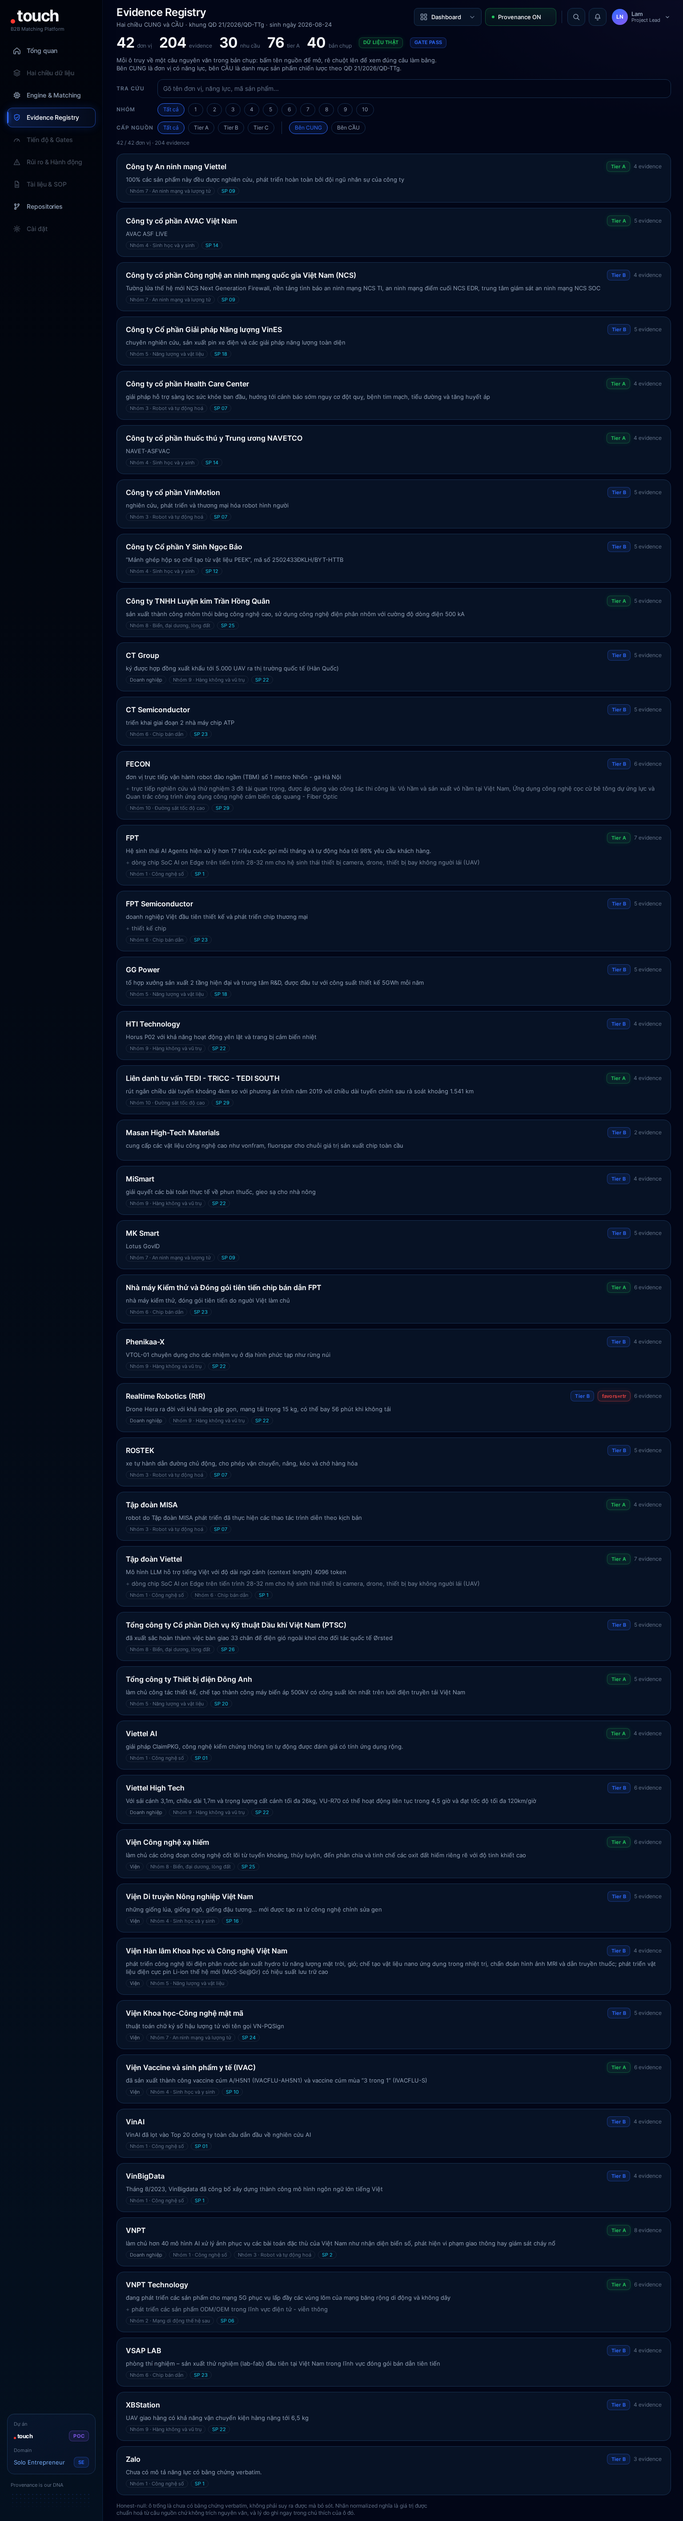
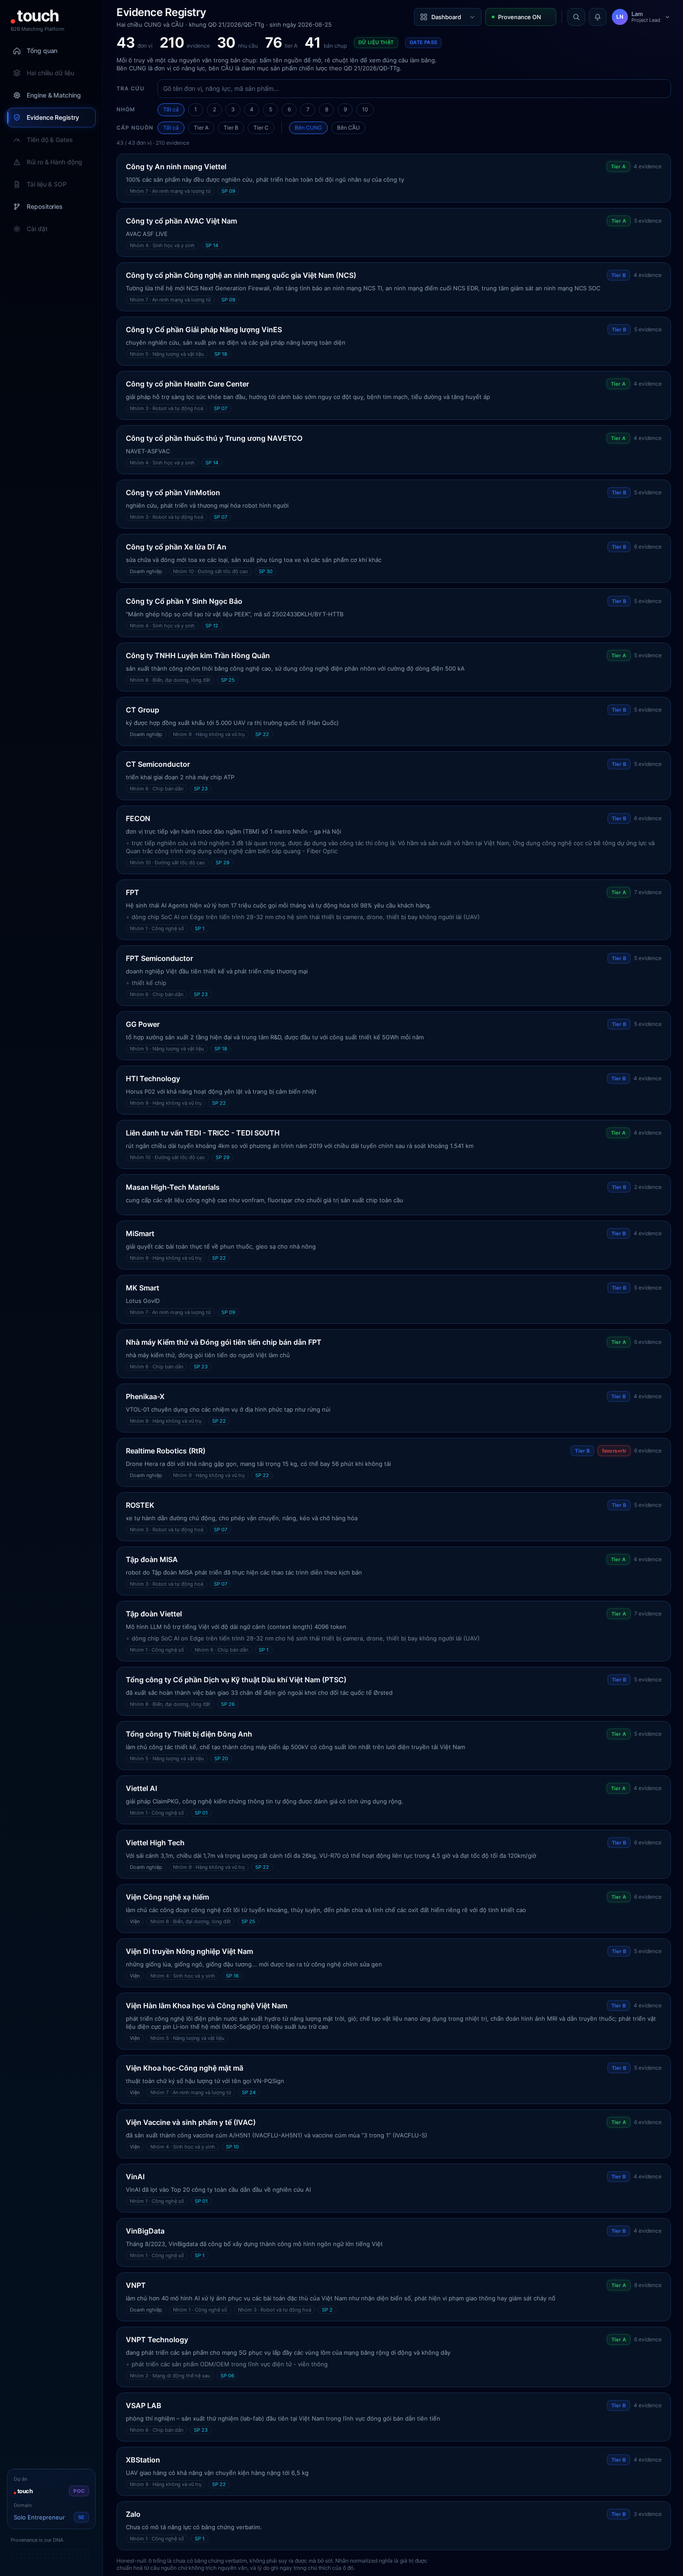
chore(moc): chup lai sau khi registry len 43 don vi; vung phu 42->43

diff --git a/lib/cncl-registry.ts b/lib/cncl-registry.ts
@@ -1,4 +1,4 @@
-// AUTO-GENERATED boi scripts/gen-cncl-data.mjs · 2026-08-24 · KHONG sua tay.
+// AUTO-GENERATED boi scripts/gen-cncl-data.mjs · 2026-08-25 · KHONG sua tay.
 // Nguon: CNCLData/domains/don_vi_cncl + Dataset_CongNgheChienLuoc
 // Sua o day se bi ghi de lan chay ke. Muon doi noi dung thi sua registry goc roi sinh lai.
 
@@ -19,15 +19,15 @@ export type CnclNeed = {
 };
 
 export const cnclMeta = {
-  "units": 42,
-  "claims": 204,
+  "units": 43,
+  "claims": 210,
   "needs": 30,
   "sources": 12,
-  "snapshots": 40,
+  "snapshots": 41,
   "tierA": 76,
-  "tierB": 128,
+  "tierB": 134,
   "nhomPhu": 10,
-  "generatedAt": "2026-08-24",
+  "generatedAt": "2026-08-25",
   "frame": "QĐ 21/2026/QĐ-TTg",
   "gate": "chay_het_cong.sh · 14 o xanh"
 } as const;
@@ -529,6 +529,93 @@ export const cnclUnits: CnclUnit[] = [
         "extraction": "normalized",
         "href": "/evidence/tuoitre_vinmotion_20250606.txt",
         "note": "TIP-2F Phan B, lam giau nen san pham. Span noi 'nghien cuu phat trien va thuong mai hoa robot hinh nguoi' -> SP07 Robot. Anh xa ma san pham theo QD 21/2026, SUY TU SPAN DA QUA CONG, khong cao them nguon."
+      }
+    ]
+  },
+  {
+    "name": "Công ty cổ phần Xe lửa Dĩ An",
+    "loaiHinh": "DN",
+    "loaiHinhLabel": "Doanh nghiệp",
+    "nhoms": [
+      "10"
+    ],
+    "nhomLabels": [
+      "Nhóm 10 · Đường sắt tốc độ cao"
+    ],
+    "sanPham": [
+      "30"
+    ],
+    "capability": "sửa chữa và đóng mới toa xe các loại, sản xuất phụ tùng toa xe và các sản phẩm cơ khí khác",
+    "capability2": "",
+    "bestTier": "B",
+    "favorsRtr": false,
+    "sources": [
+      {
+        "source": "cafef.vn",
+        "href": "/evidence/cafef_xelua_dian_20240925.txt"
+      }
+    ],
+    "tim": "công ty cổ phần xe lửa dĩ an dn doanh nghiệp sửa chữa và đóng mới toa xe các loại, sản xuất phụ tùng toa xe và các sản phẩm cơ khí khác nhóm 10 đường sắt tốc độ cao sp 30",
+    "evidence": [
+      {
+        "field": "ten_don_vi",
+        "value": "Công ty cổ phần Xe lửa Dĩ An",
+        "span": "Hiện tại, Nhà máy xe lửa Dĩ An hiện do Công ty cổ phần Xe lửa Dĩ An quản lý, tọa lạc tại số 8 Lý Thường Kiệt, khu phố 1, phường Dĩ An, TP Dĩ An, Bình Dương.",
+        "source": "cafef.vn",
+        "tier": "B",
+        "extraction": "verbatim",
+        "href": "/evidence/cafef_xelua_dian_20240925.txt",
+        "note": "VONG DO M1 25/08/2026, nhom 10 mang phuong tien. Lay phap nhan chu khong lay ten nha may: 'Nha may xe lua Di An' la co so, 'Cong ty co phan Xe lua Di An' la phap nhan quan ly no."
+      },
+      {
+        "field": "loai_hinh",
+        "value": "DN",
+        "span": "Hiện tại, Nhà máy xe lửa Dĩ An hiện do Công ty cổ phần Xe lửa Dĩ An quản lý, tọa lạc tại số 8 Lý Thường Kiệt, khu phố 1, phường Dĩ An, TP Dĩ An, Bình Dương.",
+        "source": "cafef.vn",
+        "tier": "B",
+        "extraction": "normalized",
+        "href": "/evidence/cafef_xelua_dian_20240925.txt",
+        "note": "Suy tu cum 'Cong ty co phan' trong span. Anh xa ma theo schema domain.yaml."
+      },
+      {
+        "field": "nhom_cncl",
+        "value": "10",
+        "span": "Nhà máy xe lửa Dĩ An có chức năng sửa chữa và đóng mới toa xe các loại, sản xuất phụ tùng toa xe và các sản phẩm cơ khí khác.",
+        "source": "cafef.vn",
+        "tier": "B",
+        "extraction": "normalized",
+        "href": "/evidence/cafef_xelua_dian_20240925.txt",
+        "note": "Duong sat toc do cao va do thi -> nhom 10 theo QD 21/2026. Anh xa nhom tu chuc nang dong moi toa xe."
+      },
+      {
+        "field": "san_pham_lien_quan",
+        "value": "30",
+        "span": "Nhà máy xe lửa Dĩ An có chức năng sửa chữa và đóng mới toa xe các loại, sản xuất phụ tùng toa xe và các sản phẩm cơ khí khác.",
+        "source": "cafef.vn",
+        "tier": "B",
+        "extraction": "normalized",
+        "href": "/evidence/cafef_xelua_dian_20240925.txt",
+        "note": "SP30 'He thong, thiet bi duong sat toc do cao va do thi', ban wording khac ghi ro 'phuong tien'. Toa xe la PHUONG TIEN nen thuoc SP30, KHONG phai SP29 von la mang CONG TRINH. Day dung la cho registry con trong truoc vong nay."
+      },
+      {
+        "field": "nang_luc_mo_ta",
+        "value": "sửa chữa và đóng mới toa xe các loại, sản xuất phụ tùng toa xe và các sản phẩm cơ khí khác",
+        "span": "Nhà máy xe lửa Dĩ An có chức năng sửa chữa và đóng mới toa xe các loại, sản xuất phụ tùng toa xe và các sản phẩm cơ khí khác.",
+        "source": "cafef.vn",
+        "tier": "B",
+        "extraction": "verbatim",
+        "href": "/evidence/cafef_xelua_dian_20240925.txt",
+        "note": "MON NO DO TUOI CO Y NHAN: nguon 25/09/2024, da 700 ngay. Cau la mo ta CHUC NANG dang ton tai, tuc mot TRANG THAI chu khong phai su kien da xong, nen KHONG mien tru duoc. Vong 25/08/2026 da tim ban moi hon va khong thay nguon tier A hoac B nao sau 2024 noi ve nang luc nay. Nap va ghi no ra, khong giau."
+      },
+      {
+        "field": "bang_chung_nang_luc",
+        "value": "hàng chục toa tàu do chính tay kỹ sư Việt Nam đóng đã ra đời",
+        "span": "Từ thành công bước đầu, hàng chục toa tàu do chính tay kỹ sư Việt Nam đóng đã ra đời, đường sắt Việt Nam từ đó đến nay không còn phải đi nhập khẩu toa tàu ở nước ngoài.",
+        "source": "cafef.vn",
+        "tier": "B",
+        "extraction": "verbatim",
+        "href": "/evidence/cafef_xelua_dian_20240925.txt",
+        "note": "GIU NGUON CU: su kien DA XAY RA, hang chuc toa tau da dong xong tu thi diem nam 2016. Su kien xong thi khong het han. CAT VALUE CO Y: cau nguon con ve sau 'duong sat Viet Nam tu do den nay khong con phai di nhap khau toa tau o nuoc ngoai', do la mot khang dinh TUYET DOI ve ca nganh, khong kiem duoc, va khong phai dieu registry can khang dinh. Span giu nguyen vi span la chu cua nguon."
       }
     ]
   },

diff --git a/lib/cncl-match.ts b/lib/cncl-match.ts
@@ -1,4 +1,4 @@
-// AUTO-GENERATED boi scripts/gen-cncl-data.mjs · 2026-08-24 · KHONG sua tay.
+// AUTO-GENERATED boi scripts/gen-cncl-data.mjs · 2026-08-25 · KHONG sua tay.
 // Nguon: CaoLocMatch/out/matches.jsonl + signoff_ledger.jsonl
 // Sua o day se bi ghi de lan chay ke. Muon doi noi dung thi sua registry goc roi sinh lai.
 
@@ -29,7 +29,7 @@ export const matchMeta = {
   "tongChay": 11,
   "rule": "anchor_group_overlap_v2",
   "nguoiKy": "Lam Nguyen",
-  "generatedAt": "2026-08-24"
+  "generatedAt": "2026-08-25"
 } as const;
 
 export const signedMatches: SignedMatch[] = [
